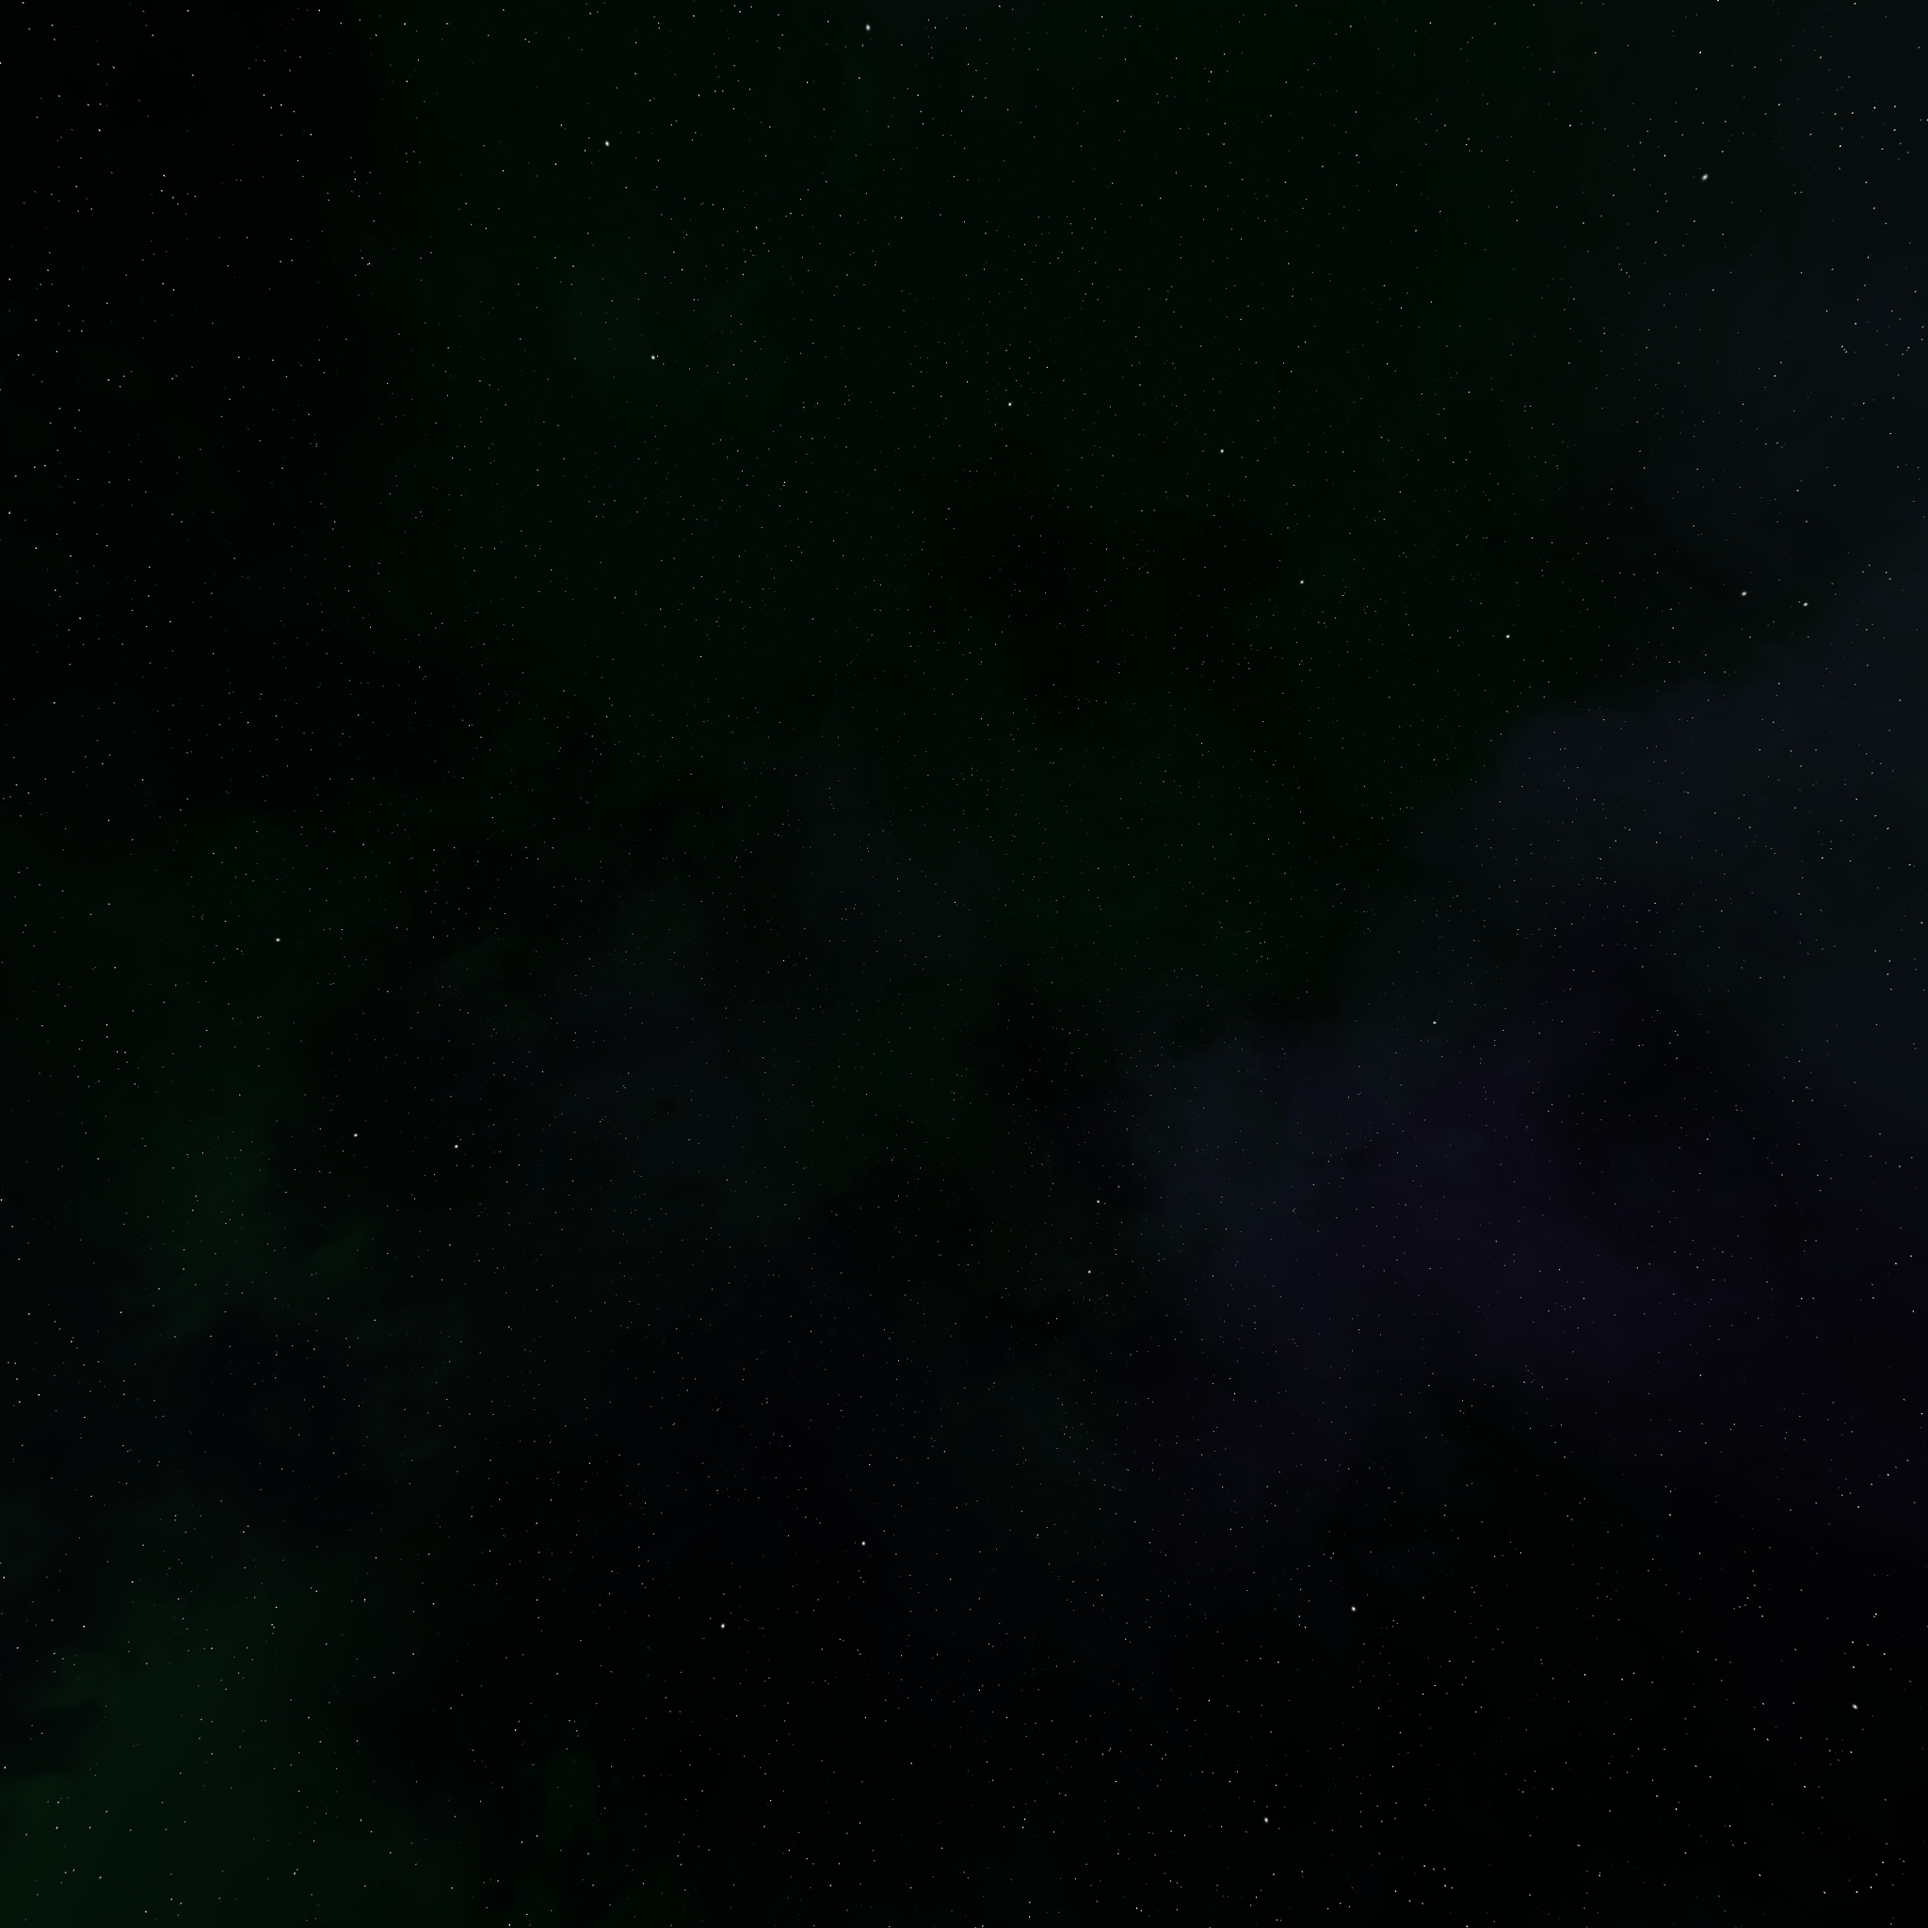
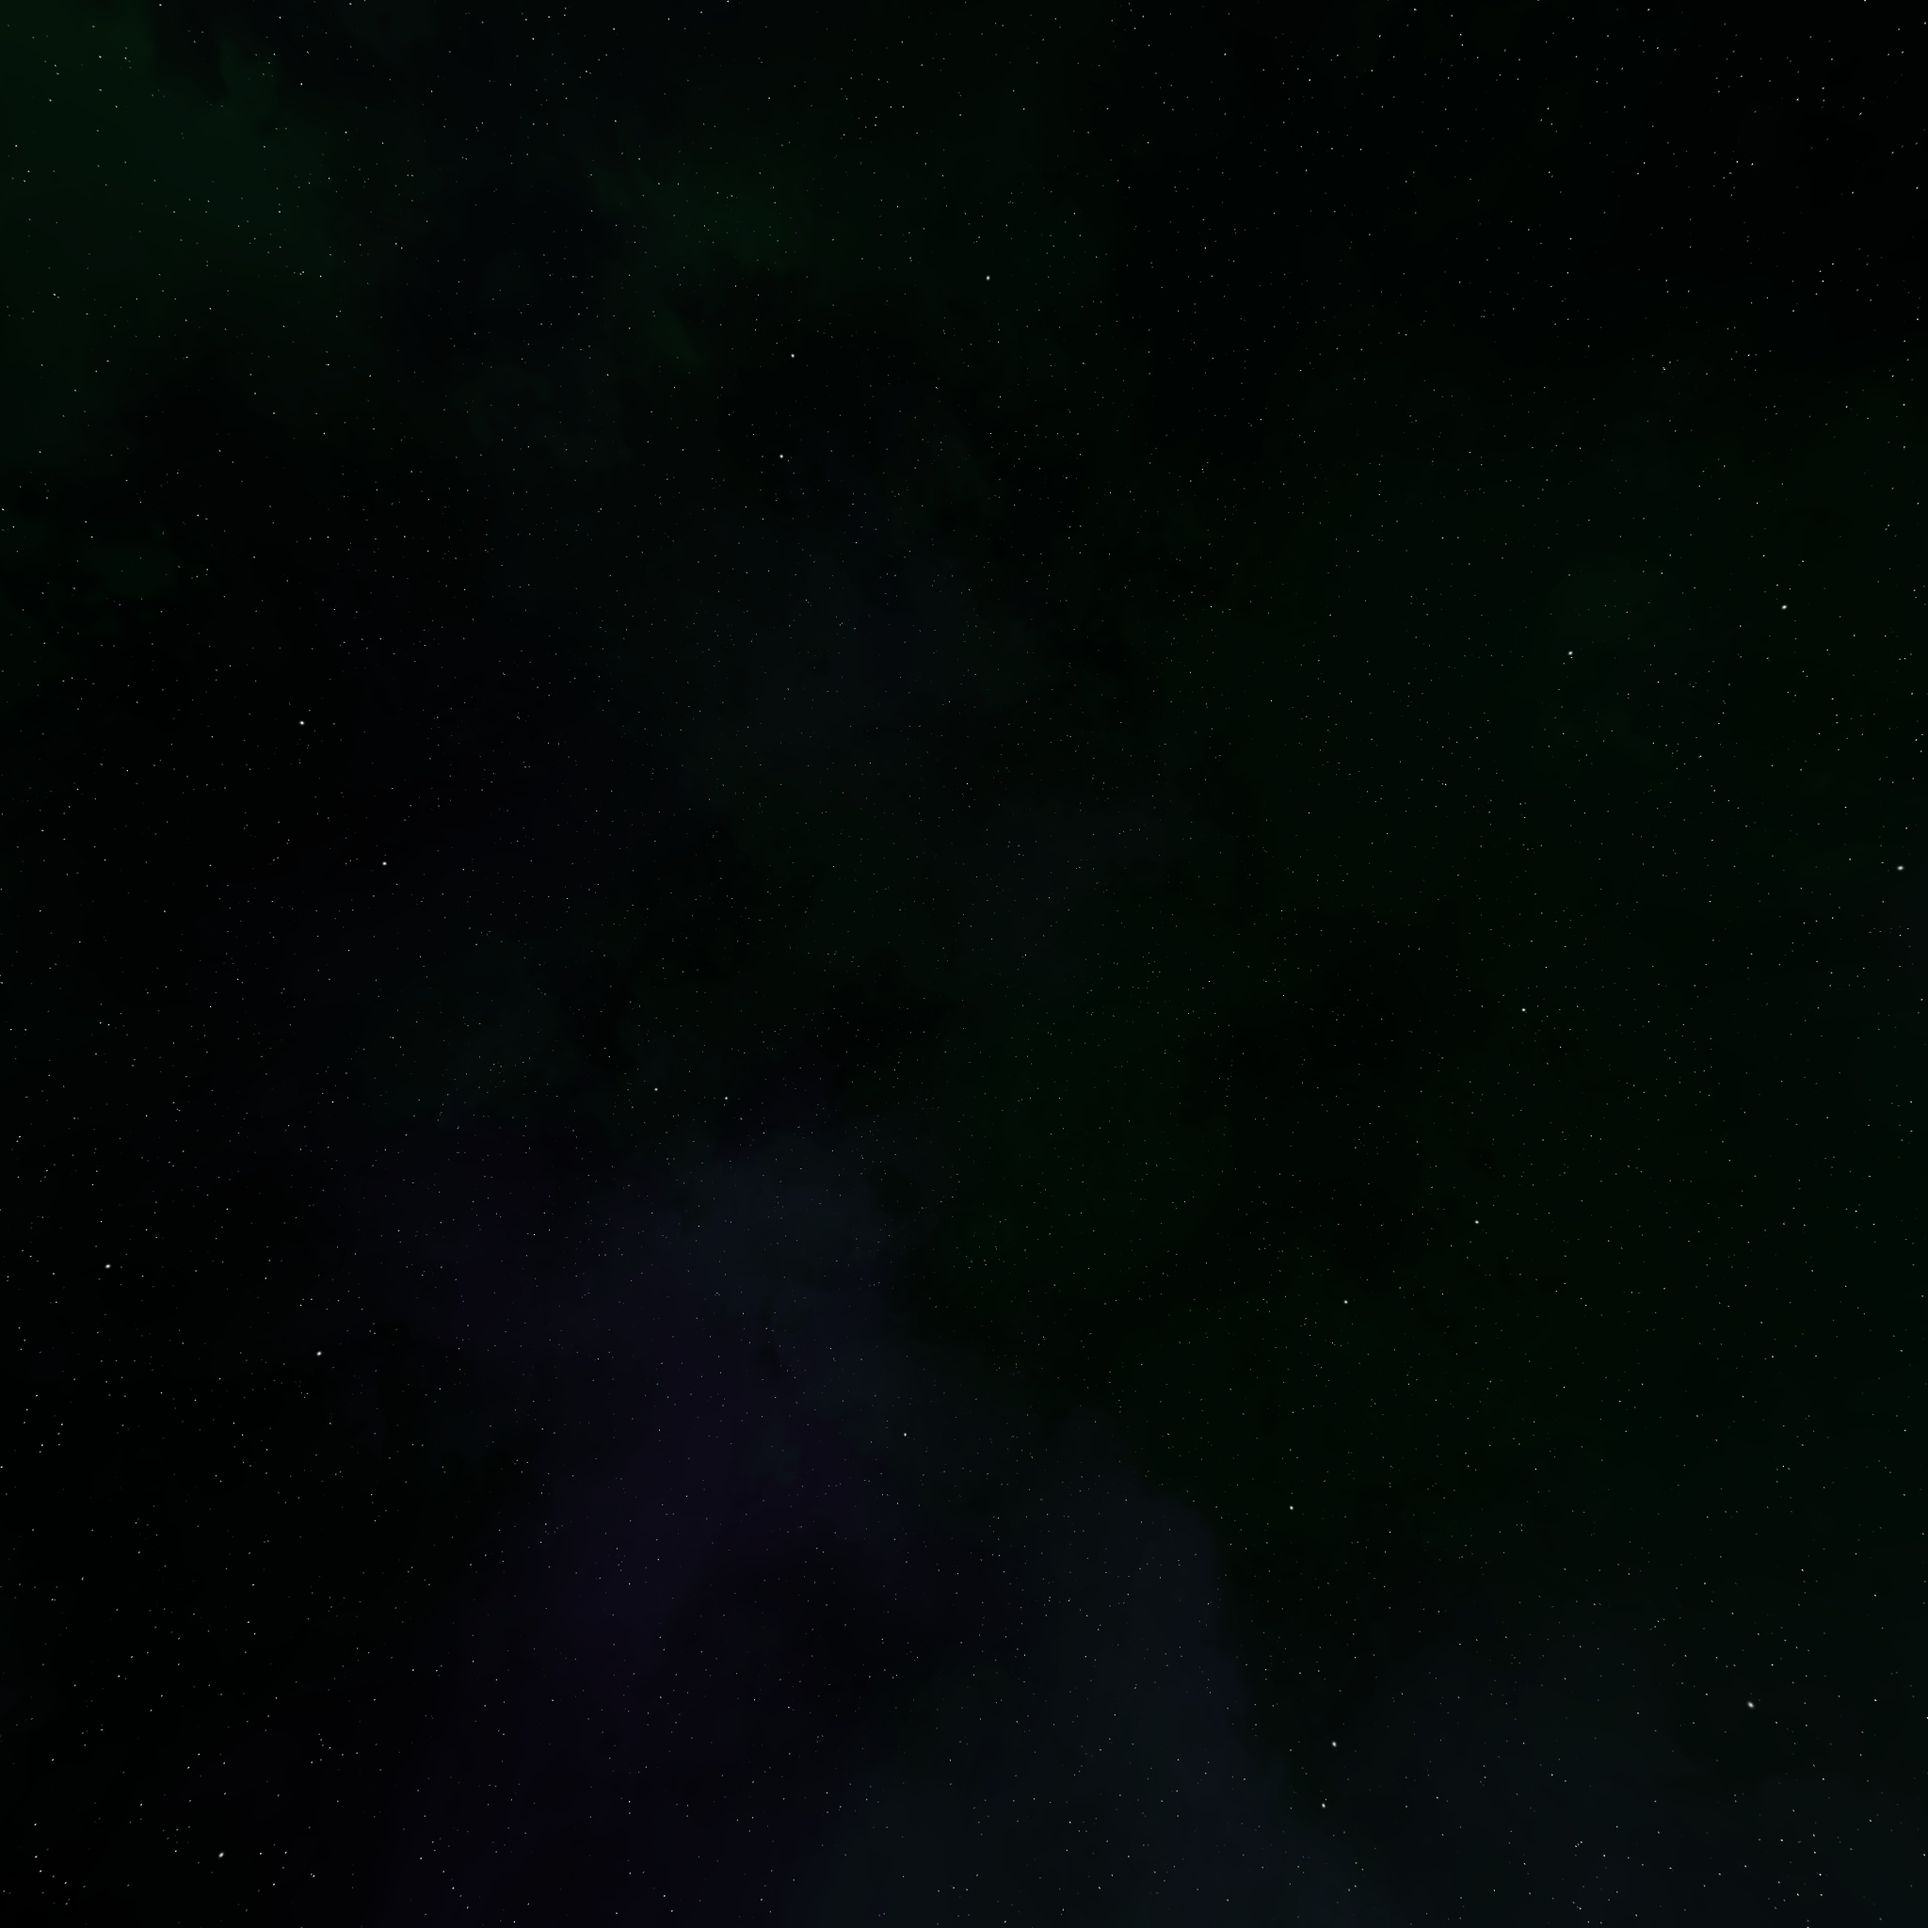
Updating Sol

diff --git a/FinalAssignment-SolarSystem/Javascript/orbitcontrols.js b/FinalAssignment-SolarSystem/Javascript/orbitcontrols.js
@@ -2,7 +2,7 @@
 import * as THREE from 'https://cdn.skypack.dev/three';
 import { camera, renderer } from './threecore.js';
 import { OrbitControls } from 'https://cdn.skypack.dev/three/examples/jsm/controls/OrbitControls.js';
-import { getVectorByMagnitude } from './helpers.js';
+import { getVectorByMagnitude, lerp } from './helpers.js';
 import { solarsystem } from './objects.js';
 
 //Orbital Controls
@@ -17,27 +17,21 @@ ocontrols.enableZoom = false;
 const customzoom = {
     zoom: 24,
     zoomspeed: .6,
-    min: .1,
+    zoomfactor: .2,
+    min: .08,
     max: 200,
     focus: solarsystem[0].mesh.position
 }
+customzoom.zoom0 = customzoom.zoom;
 
-//Handle Custom Zooming
-let dirvector = new THREE.Vector3(0, 0, 0)
-window.addEventListener('wheel', function (e) {
+//Update the zoom / Smooth Zoom
+let dirvector = new THREE.Vector3(0, 0, 0);
+function UpdateZoomControls() {
+    customzoom.zoom0 = lerp(customzoom.zoom0, customzoom.zoom, customzoom.zoomfactor);
 
-    //Increment Decremenet Zoom Level
-    let dir = Math.sign(e.deltaY) == -1 ? "up" : "down";
-    customzoom.zoom = dir == "up" ? customzoom.zoom -= customzoom.zoomspeed : customzoom.zoom += customzoom.zoomspeed;
-    customzoom.zoom = Math.min(customzoom.zoom, customzoom.max);
-    customzoom.zoom = Math.max(customzoom.zoom, customzoom.min);
-
-    //Calculate New Pointvector.
-    //Get Direction Vector, Normalize it
-    //New point = Old point + (Direction * Magnitude)
     dirvector.x = 0; dirvector.y = 0; dirvector.z = 0;
     dirvector.subVectors(camera.position, ocontrols.target).normalize();
-    dirvector = getVectorByMagnitude(ocontrols.target, dirvector, customzoom.zoom);
+    dirvector = getVectorByMagnitude(ocontrols.target, dirvector, customzoom.zoom0);
 
     //Dolly Camera
     camera.position.x = dirvector.x;
@@ -50,11 +44,39 @@ window.addEventListener('wheel', function (e) {
     ocontrols.target.y = customzoom.focus.y;
     ocontrols.target.z = customzoom.focus.z;
 
-    console.log(ocontrols.target);
-
-
     camera.updateMatrix();
     camera.updateMatrixWorld();
+}
+
+//Increment Decrement Custom Zooming
+window.addEventListener('wheel', function (e) {
+
+    //Increment Decremenet Zoom Level
+    let dir = Math.sign(e.deltaY) == -1 ? "up" : "down";
+    customzoom.zoom = dir == "up" ? customzoom.zoom -= customzoom.zoomspeed : customzoom.zoom += customzoom.zoomspeed;
+    customzoom.zoom = Math.min(customzoom.zoom, customzoom.max);
+    customzoom.zoom = Math.max(customzoom.zoom, customzoom.min);
+
+    // //Calculate New Pointvector.
+    //Get Direction Vector, Normalize it
+    //New point = Old point + (Direction * Magnitude)
+    // dirvector.x = 0; dirvector.y = 0; dirvector.z = 0;
+    // dirvector.subVectors(camera.position, ocontrols.target).normalize();
+    // dirvector = getVectorByMagnitude(ocontrols.target, dirvector, customzoom.zoom0);
+
+    // //Dolly Camera
+    // camera.position.x = dirvector.x;
+    // camera.position.y = dirvector.y;
+    // camera.position.z = dirvector.z;
+
+    // //Reset Target
+    // customzoom.focus = solarsystem[0].mesh.position;
+    // ocontrols.target.x = customzoom.focus.x;
+    // ocontrols.target.y = customzoom.focus.y;
+    // ocontrols.target.z = customzoom.focus.z;
+
+    // camera.updateMatrix();
+    // camera.updateMatrixWorld();
 })
 
 /*
@@ -67,4 +89,7 @@ directionvector.multiplyScalar(24.516);
 console.log(directionvector);
 */
 
-export { ocontrols };
+export {
+    ocontrols,
+    UpdateZoomControls
+};

diff --git a/FinalAssignment-SolarSystem/Javascript/threecore.js b/FinalAssignment-SolarSystem/Javascript/threecore.js
@@ -24,9 +24,17 @@ window.addEventListener('resize', () => {
 //Prevent Middle Clicking
 document.body.onmousedown = function (e) { if (e.button == 1) return false };
 
-//Background
+//Load Background Textures
 const bgloader = new THREE.CubeTextureLoader();
-const bgtexture = bgloader.load([
+const bgtexture1 = bgloader.load([
+    './Assets/Sky/front.png', //Front : px
+    './Assets/Sky/back.png', //Left : nx
+    './Assets/Sky/top.png', //Top : py
+    './Assets/Sky/bottom.png', //Bottom : ny
+    './Assets/Sky/left.png', //Left : pz
+    './Assets/Sky/right.png' //Right : nz
+]);
+const bgtexture2 = bgloader.load([
     './Assets/Sky3/front.png', //Front : px
     './Assets/Sky3/back.png', //Left : nx
     './Assets/Sky3/top.png', //Top : py
@@ -34,11 +42,21 @@ const bgtexture = bgloader.load([
     './Assets/Sky3/left.png', //Left : pz
     './Assets/Sky3/right.png' //Right : nz
 ]);
-scene.background = bgtexture;
+const bgtexture3 = bgloader.load([
+    './Assets/Sky2/front.png', //Front : px
+    './Assets/Sky2/back.png', //Left : nx
+    './Assets/Sky2/top.png', //Top : py
+    './Assets/Sky2/bottom.png', //Bottom : ny
+    './Assets/Sky2/left.png', //Left : pz
+    './Assets/Sky2/right.png' //Right : nz
+]);
+const bgtextures = [bgtexture1, bgtexture2, bgtexture3];
+scene.background = bgtextures[1];
 
 export {
     camera,
     renderer,
     scene,
+    bgtextures
 };
 

diff --git a/FinalAssignment-SolarSystem/Javascript/animate.js b/FinalAssignment-SolarSystem/Javascript/animate.js
@@ -2,7 +2,7 @@
 import { scene, renderer, camera } from './threecore.js'
 import { solarsystem } from './objects.js';
 import { radians } from './helpers.js';
-import { ocontrols } from './orbitcontrols.js';
+import { ocontrols, UpdateZoomControls } from './orbitcontrols.js';
 import { updateDebug, updateLabels } from './interface.js';
 
 
@@ -37,6 +37,7 @@ function animate() {
 
     //Update Scene
     ocontrols.update();
+    UpdateZoomControls();
     renderer.render(scene, camera);
     requestAnimationFrame(animate);
 }

diff --git a/FinalAssignment-SolarSystem/Javascript/helpers.js b/FinalAssignment-SolarSystem/Javascript/helpers.js
@@ -36,9 +36,17 @@ function getVectorByMagnitude(
     return endpoint
 }
 
+//Linear Interpolation
+function lerp(a, b, f) {
+    let x = (b - a) * f;
+    x = a + x;
+    return x
+}
+
 export {
     c3OrbitGeometry,
     radians,
     randomrange,
-    getVectorByMagnitude
+    getVectorByMagnitude,
+    lerp
 };
